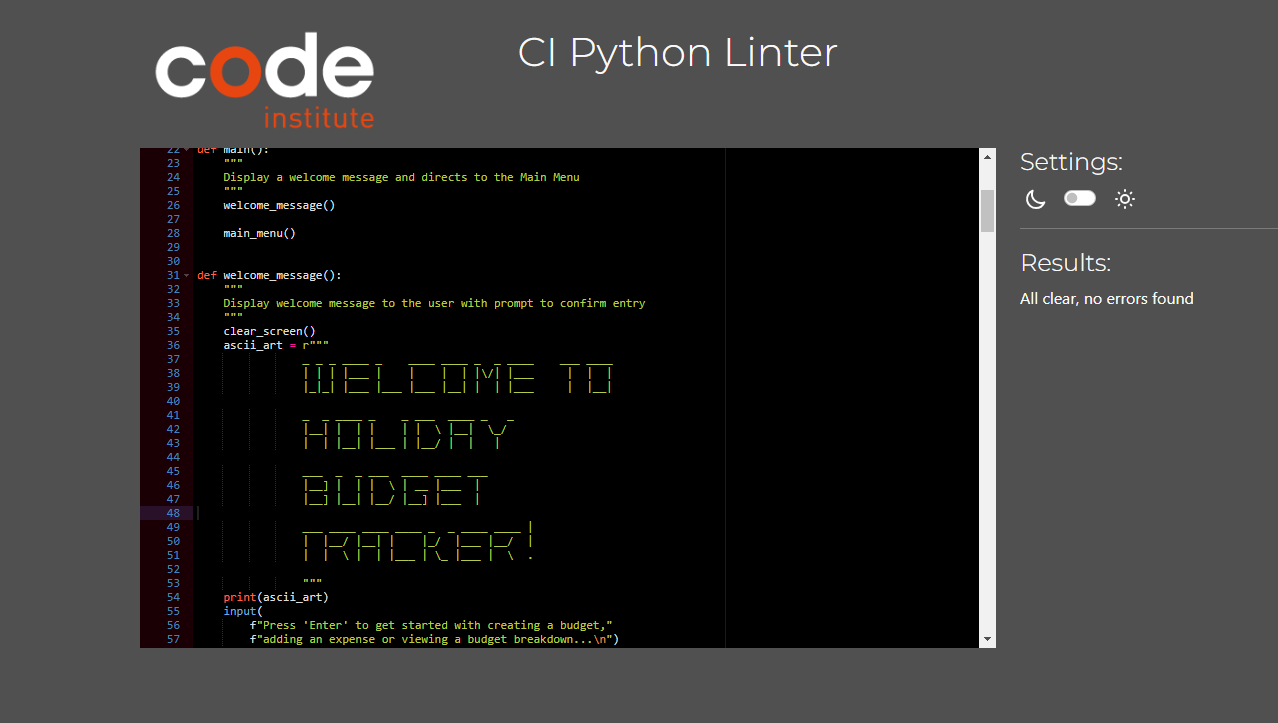
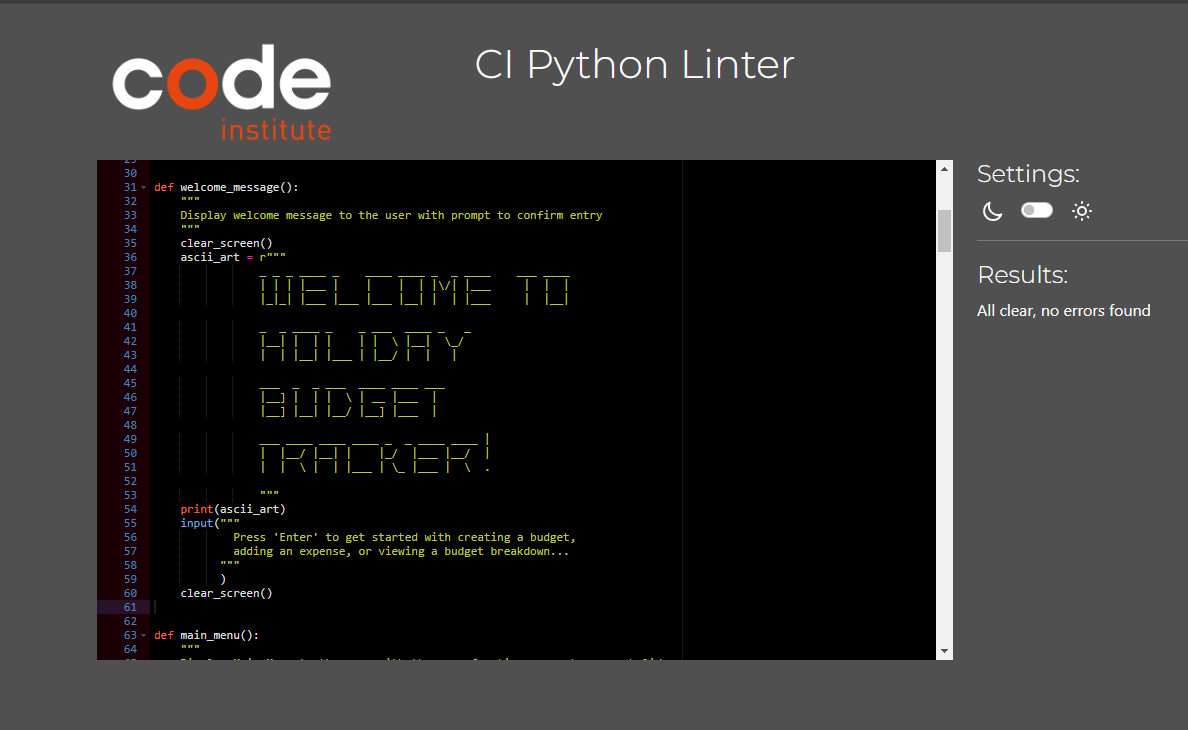
Format welcome message and upload new linter photo

Changed region(s): [[0.0623, 0.0304, 0.9655, 0.9129], [0.4049, 0.0304, 0.6852, 0.1217], [0.436, 0.5173, 0.4672, 0.5477]]

diff --git a/run.py b/run.py
@@ -52,9 +52,11 @@ def welcome_message():
 
                 """
     print(ascii_art)
-    input(
-        f"Press 'Enter' to get started with creating a budget,"
-        f"adding an expense or viewing a budget breakdown...\n")
+    input("""
+            Press 'Enter' to get started with creating a budget, 
+            adding an expense, or viewing a budget breakdown...
+          """
+      )
     clear_screen()
 
 
